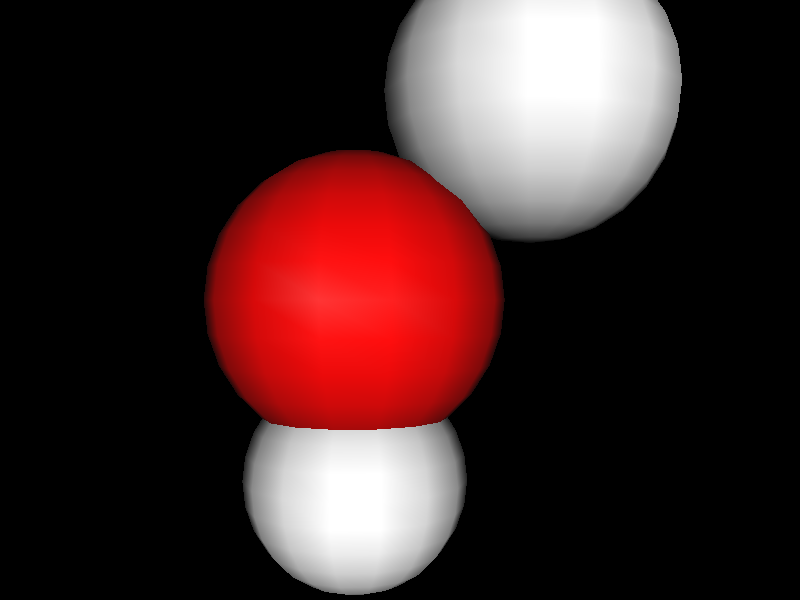
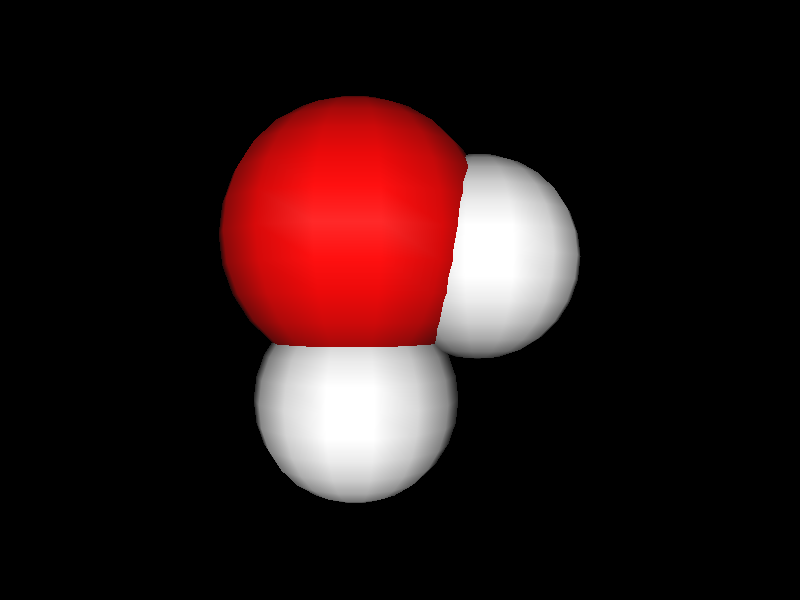
update example images

diff --git a/examples/Mentor/10.6.PickFilterTopLevel.cpp b/examples/Mentor/10.6.PickFilterTopLevel.cpp
@@ -38,6 +38,8 @@
  * Headless version of Inventor Mentor example 10.6
  *
  * Demonstrates top-level versus default pick filtering using v2 object IDs.
+ * Two benches are shown so filtered whole-model selection and default
+ * component selection stay visually comparable with the original example.
  */
 
 #include "headless_utils.h"
@@ -110,37 +112,29 @@ Bench makeBench(obol::Scene & scene, float x)
     Bench bench;
     bench.group = scene.addGroup(translation(x, 0.0f, 0.0f));
 
-    const obol::Material gray = material(0.65f, 0.67f, 0.67f);
-    const float slatX[11] = {
-        -2.5f, -2.0f, -1.5f, -1.0f, -0.5f, 0.0f,
-         0.5f,  1.0f,  1.5f,  2.0f,  2.5f
+    const float plankX[3] = {-0.6f, 0.0f, 0.6f};
+    const obol::Material plankMaterials[3] = {
+        material(0.55f, 0.30f, 0.10f),
+        material(0.60f, 0.35f, 0.12f),
+        material(0.50f, 0.28f, 0.09f)
     };
-    for (float sx : slatX) {
+    for (int i = 0; i < 3; ++i) {
         addBenchCube(scene,
                      bench,
-                     gray,
-                     partTransform(sx, 0.75f, 0.0f, 0.055f, 0.85f, 0.05f));
+                     plankMaterials[i],
+                     partTransform(plankX[i], 0.55f, 0.0f, 0.45f, 0.08f, 1.8f));
     }
 
-    addBenchCube(scene, bench, gray, partTransform(0.0f, 0.0f, 0.0f, 1.7f, 0.12f, 0.08f));
-    addBenchCube(scene, bench, gray, partTransform(0.0f, 1.45f, 0.0f, 1.55f, 0.07f, 0.08f));
-    addBenchCube(scene, bench, gray, partTransform(-3.1f, 0.55f, 0.0f, 0.10f, 0.95f, 0.10f));
-    addBenchCube(scene, bench, gray, partTransform(3.1f, 0.55f, 0.0f, 0.10f, 0.95f, 0.10f));
-    addBenchCube(scene, bench, gray, partTransform(-2.6f, -0.75f, 0.0f, 0.10f, 0.70f, 0.10f));
-    addBenchCube(scene, bench, gray, partTransform(2.6f, -0.75f, 0.0f, 0.10f, 0.70f, 0.10f));
-    addBenchCube(scene, bench, gray, partTransform(-2.8f, 0.10f, 0.0f, 0.06f, 0.75f, 0.08f));
-    addBenchCube(scene, bench, gray, partTransform(2.8f, 0.10f, 0.0f, 0.06f, 0.75f, 0.08f));
+    const float legZ[2] = {-0.75f, 0.75f};
+    const obol::Material frameMaterial = material(0.25f, 0.25f, 0.30f);
+    for (int i = 0; i < 2; ++i) {
+        addBenchCube(scene,
+                     bench,
+                     frameMaterial,
+                     partTransform(0.0f, 0.25f, legZ[i], 1.6f, 0.5f, 0.08f));
+    }
 
     return bench;
-}
-
-void applyViewAllCamera(obol::Scene & scene)
-{
-    obol::ViewAllRequest request;
-    request.viewportWidth = DEFAULT_WIDTH;
-    request.viewportHeight = DEFAULT_HEIGHT;
-    request.slack = 1.25f;
-    scene.setCamera(obol::CameraFraming::viewAllPerspective(scene, request));
 }
 
 void setBenchMaterial(obol::Scene & scene, const Bench & bench, const obol::Material & mat)
@@ -172,6 +166,11 @@ int main(int argc, char **argv)
     initCoinHeadless();
 
     obol::Scene scene;
+    obol::PerspectiveCamera camera;
+    camera.position = {0.0f, 5.5f, 8.0f};
+    camera.target = {0.0f, 0.2f, 0.0f};
+    camera.verticalFieldOfViewRadians = 0.62f;
+    scene.setCamera(camera);
 
     obol::DirectionalLight light1;
     light1.direction = {-1.0f, -1.5f, -1.0f};
@@ -182,8 +181,8 @@ int main(int argc, char **argv)
     light2.color = {0.8f, 0.9f, 1.0f, 1.0f};
     scene.addDirectionalLight(light2);
 
-    Bench bench = makeBench(scene, 0.0f);
-    applyViewAllCamera(scene);
+    Bench leftBench = makeBench(scene, -3.0f);
+    makeBench(scene, 3.0f);
 
     obol::ContextManagerBackend backend(getCoinHeadlessContextManager(),
                                         obol::RenderBackendKind::OpenGL2SWRast,
@@ -199,19 +198,19 @@ int main(int argc, char **argv)
     char filename[512];
     int frameNum = 0;
 
-    printf("Frame %d: initial scene (bench unselected)\n", frameNum);
+    printf("Frame %d: initial scene (both benches unselected)\n", frameNum);
     snprintf(filename, sizeof(filename), "%s_frame%02d_initial.rgb", base, frameNum++);
     if (!renderScene(renderer, scene, filename)) return 1;
 
-    printf("Frame %d: filtered selection -> entire bench highlighted\n", frameNum);
-    setBenchMaterial(scene, bench, highlightMaterial());
+    printf("Frame %d: filtered selection -> entire left bench highlighted\n", frameNum);
+    setBenchMaterial(scene, leftBench, highlightMaterial());
     snprintf(filename, sizeof(filename), "%s_frame%02d_filtered_selected.rgb", base, frameNum++);
     if (!renderScene(renderer, scene, filename)) return 1;
-    restoreBenchMaterial(scene, bench);
+    restoreBenchMaterial(scene, leftBench);
 
-    printf("Frame %d: default selection -> only one bench component highlighted\n", frameNum);
-    if (!bench.parts.empty()) {
-        scene.setObjectMaterial(bench.parts[0].id, highlightMaterial());
+    printf("Frame %d: default selection -> only one left-bench component highlighted\n", frameNum);
+    if (!leftBench.parts.empty()) {
+        scene.setObjectMaterial(leftBench.parts[0].id, highlightMaterial());
     }
     snprintf(filename, sizeof(filename), "%s_frame%02d_default_selected.rgb", base, frameNum++);
     if (!renderScene(renderer, scene, filename)) return 1;

diff --git a/examples/Mentor/03.1.Molecule.cpp b/examples/Mentor/03.1.Molecule.cpp
@@ -8,6 +8,7 @@
 #include "headless_utils.h"
 #include <Obol/Obol.h>
 
+#include <cmath>
 #include <cstdio>
 
 namespace {
@@ -49,29 +50,53 @@ void addWaterMolecule(obol::Scene & scene)
                        molecule);
 
     obol::PrimitiveOptions defaultHydrogen;
-    defaultHydrogen.radius = 1.0f;
+    defaultHydrogen.radius = 0.75f;
+    // The original example uses SoGroup, so hydrogen1's scale/translation
+    // remains in the traversal state when hydrogen2 is visited.
+    const float inheritedScale = 0.75f;
+    const float inheritedTranslationY = -1.2f;
     scene.addPrimitive(obol::Primitive::Sphere,
                        material(1.0f, 1.0f, 1.0f),
-                       transform(1.1852f, 1.3877f, 0.0f),
+                       transform(1.1852f * inheritedScale,
+                                 inheritedTranslationY +
+                                     1.3877f * inheritedScale,
+                                 0.0f),
                        defaultHydrogen,
                        molecule);
 }
 
-bool renderScene(obol::OffscreenRenderer & renderer,
-                 obol::Scene & scene,
-                 const char * filename)
+bool renderView(obol::OffscreenRenderer & renderer,
+                obol::Scene & scene,
+                const char * filename,
+                const obol::PerspectiveCamera & camera)
 {
+    scene.setCamera(camera);
     const obol::FrameResult result = renderer.render(scene);
     return result.success && renderer.writeRGB(filename);
 }
 
-void setCamera(obol::Scene & scene, const obol::Vec3 & position)
+obol::PerspectiveCamera orbitCamera(const obol::PerspectiveCamera & camera,
+                                    float azimuth,
+                                    float elevation)
 {
-    obol::PerspectiveCamera camera;
-    camera.position = position;
-    camera.target = {0.3f, 0.0f, 0.0f};
-    camera.verticalFieldOfViewRadians = 0.65f;
-    scene.setCamera(camera);
+    obol::CameraOrbitRequest request;
+    request.camera = camera;
+    request.azimuthRadians = azimuth;
+    request.elevationRadians = elevation;
+    return obol::CameraFraming::orbit(request);
+}
+
+void makeCameras(const obol::Scene & scene,
+                 obol::PerspectiveCamera & frontCamera,
+                 obol::PerspectiveCamera & sideCamera,
+                 obol::PerspectiveCamera & angleCamera)
+{
+    obol::ViewAllRequest request;
+    request.viewportWidth = DEFAULT_WIDTH;
+    request.viewportHeight = DEFAULT_HEIGHT;
+    frontCamera = obol::CameraFraming::viewAllPerspective(scene, request);
+    sideCamera = orbitCamera(frontCamera, static_cast<float>(M_PI / 2.0), 0.0f);
+    angleCamera = orbitCamera(frontCamera, 0.0f, static_cast<float>(M_PI / 4.0));
 }
 
 } // namespace
@@ -83,6 +108,10 @@ int main(int argc, char **argv)
     obol::Scene scene;
     scene.addDirectionalLight(obol::DirectionalLight{});
     addWaterMolecule(scene);
+    obol::PerspectiveCamera frontCamera;
+    obol::PerspectiveCamera sideCamera;
+    obol::PerspectiveCamera angleCamera;
+    makeCameras(scene, frontCamera, sideCamera, angleCamera);
 
     obol::ContextManagerBackend backend(getCoinHeadlessContextManager(),
                                         obol::RenderBackendKind::OpenGL2SWRast,
@@ -97,19 +126,16 @@ int main(int argc, char **argv)
     const char *baseFilename = (argc > 1) ? argv[1] : "03.1.Molecule";
     char filename[512];
 
-    setCamera(scene, {0.0f, 0.0f, 6.0f});
     snprintf(filename, sizeof(filename), "%s_front.rgb", baseFilename);
-    if (!renderScene(renderer, scene, filename)) return 1;
+    if (!renderView(renderer, scene, filename, frontCamera)) return 1;
     snprintf(filename, sizeof(filename), "%s.rgb", baseFilename);
-    if (!renderScene(renderer, scene, filename)) return 1;
+    if (!renderView(renderer, scene, filename, frontCamera)) return 1;
 
-    setCamera(scene, {6.0f, 0.0f, 0.0f});
     snprintf(filename, sizeof(filename), "%s_side.rgb", baseFilename);
-    if (!renderScene(renderer, scene, filename)) return 1;
+    if (!renderView(renderer, scene, filename, sideCamera)) return 1;
 
-    setCamera(scene, {4.0f, 3.0f, 5.0f});
     snprintf(filename, sizeof(filename), "%s_angle.rgb", baseFilename);
-    if (!renderScene(renderer, scene, filename)) return 1;
+    if (!renderView(renderer, scene, filename, angleCamera)) return 1;
 
     return 0;
 }

diff --git a/examples/Mentor/04.2.Lights.cpp b/examples/Mentor/04.2.Lights.cpp
@@ -79,11 +79,6 @@ int main(int argc, char **argv)
     initCoinHeadless();
 
     obol::Scene scene;
-    obol::PerspectiveCamera camera;
-    camera.position = {0.0f, 0.0f, 7.0f};
-    camera.target = {0.0f, 0.0f, 0.0f};
-    camera.verticalFieldOfViewRadians = 0.65f;
-    scene.setCamera(camera);
 
     obol::DirectionalLight directional;
     directional.direction = {0.0f, -1.0f, -1.0f};
@@ -96,11 +91,13 @@ int main(int argc, char **argv)
     point.location = {0.0f, 0.0f, 0.0f};
     scene.addPointLight(point, movingLight);
 
-    obol::Material coneMaterial;
-    coneMaterial.baseColor = {0.85f, 0.78f, 0.55f, 1.0f};
-    coneMaterial.specular = {0.4f, 0.4f, 0.4f, 1.0f};
-    coneMaterial.shininess = 0.35f;
-    scene.addPrimitive(obol::Primitive::Cone, coneMaterial);
+    scene.addPrimitive(obol::Primitive::Cone, obol::Material{});
+
+    obol::ViewAllRequest cameraRequest;
+    cameraRequest.viewportWidth = DEFAULT_WIDTH;
+    cameraRequest.viewportHeight = DEFAULT_HEIGHT;
+    scene.setCamera(obol::CameraFraming::viewAllPerspective(scene,
+                                                            cameraRequest));
 
     obol::ContextManagerBackend backend(getCoinHeadlessContextManager(),
                                         obol::RenderBackendKind::OpenGL2SWRast,

diff --git a/docs/MENTOR_V2_IMAGE_AUDIT.md b/docs/MENTOR_V2_IMAGE_AUDIT.md
@@ -38,21 +38,73 @@ Current comparison summary:
 | Chapter | Common | Changed | Avg RMSE | Max RMSE | Max-diff image | Initial assessment |
 | --- | ---: | ---: | ---: | ---: | --- | --- |
 | 02 | 41 | 41 | 0.57 | 1.88 | `02.2.EngineSpin_frame06_control.png` | Fixed/aligned. Cone examples now preserve the original diffuse material and `viewAll()`-derived camera/viewer state while keeping v2 app-owned animation and camera updates. Remaining delta is rasterization noise. |
-| 03 | 11 | 11 | 60.86 | 105.93 | `03.3.Naming_before_control.png` | Mixed. Molecule/Robot color regression was fixed. `03.3.Naming` separated cube/sphere composition is accepted as clearer v2 intent. |
-| 04 | 10 | 10 | 33.56 | 37.69 | `04.2.Lights_frame01_control.png` | Mostly acceptable after light-state bridge fix; gradient behavior restored. |
+| 03 | 11 | 11 | 48.76 | 105.93 | `03.3.Naming_before_control.png` | Mixed. `03.1.Molecule` transform-state regression has been fixed by preserving the original `SoGroup` inherited transform behavior. `03.3.Naming` separated cube/sphere composition is accepted as clearer v2 intent. `03.2.Robot` is much more legible in v2 but changes material/color substantially enough to need signoff as an intentional improvement. |
+| 04 | 10 | 10 | 17.11 | 37.06 | `04.1.Cameras_orthographic_control.png` | Improved. `04.2.Lights` now uses the original default cone material and `viewAll()`-derived camera, restoring the yellow-to-red light-gradient scale/framing. Remaining Chapter 04 deltas are in the camera-projection example, not Lights. |
 | 05 | 23 | 23 | 1.25 | 6.23 | `05.6.TransformOrdering_front_control.png` | Fixed/aligned. FaceSet, IndexedFaceSet, TriangleStripSet, QuadMesh, Binding, and TransformOrdering now preserve original camera/light/material intent; native strip/quad mesh bridge paths avoid fallback normal artifacts. Remaining delta is minor rasterization/subpixel noise. |
 | 06 | 10 | 10 | 6.50 | 16.40 | `06.2.Simple3DText_front_control.png` | Fixed/aligned. `06.1.Text` and `06.2.Simple3DText` now preserve the original `viewAll()`/orbit camera sequence and default lighting; `06.3.Complex3DText` preserves its explicit camera/orbit sequence while keeping the v2 text-profile fallback. Remaining delta is text rasterization and sphere/text tessellation shading noise. |
 | 07 | 9 | 9 | 2.43 | 6.71 | `07.3.TextureFunction_angle_control.png` | Fixed/aligned. `07.1.BasicTexture`, `07.2.TextureCoordinates`, and `07.3.TextureFunction` now preserve the original texture data/UV behavior, `viewAll()`/orbit camera sequence, and default lighting. Remaining delta is minor rasterization/tessellation noise. |
 | 08 | 16 | 16 | 20.95 | 29.60 | `08.2.UniCurve_top_control.png` | Intentional fallback, with fixes. NURBS examples are sampled/tessellated; `08.3`/`08.4` lighting/normals corrected. |
 | 09 | 13 | 13 | 34.10 | 56.04 | `09.4.PickAction_pick_star2_control.png` | Improved. `09.1.Print` camera framing fixed; `09.2.Texture` source texture framing fixed; `09.4.PickAction` cube/star regression fixed. |
-| 10 | 38 | 38 | 28.52 | 52.48 | `10.2.setEventCB_rotated_control.png` | Improved. `10.2.setEventCB` primary frame is back to the initial light-blue sphere and uses suffixed frames for event-state changes; `10.5.SelectionCB`, `10.6.PickFilterTopLevel`, and `10.7.PickFilterManip` framing/selection-state visibility fixed. `10.8.PickFilterNodeKit` remains visually close to `main`; manipulator geometry remains a first-class v2 interaction follow-up. |
+| 10 | 38 | 38 | 29.69 | 70.77 | `10.6.PickFilterTopLevel_frame01_filtered_selected_control.png` | Improved with old-v2 context. `10.2.setEventCB` primary frame is back to the initial light-blue sphere and uses suffixed frames for event-state changes; `10.5.SelectionCB` and `10.7.PickFilterManip` framing/selection-state visibility fixed. `10.6.PickFilterTopLevel` has been restored to the `ee1ce99` old-v2 two-bench abstraction, preserving whole-bench versus component-only selection even though it differs from `main`'s imported curved park bench. `10.8.PickFilterNodeKit` remains visually close to `main`; manipulator geometry remains a first-class v2 interaction follow-up. |
 | 11 | 2 | 2 | 0.94 | 1.18 | `11.1.ReadFile_control.png` | Fixed/aligned. Imported/string scenes use `viewAll()`-derived v2 cameras, and v2 lights are ordered before legacy fallback roots so `ReadFile` and `ReadString` match the original lit imported content. |
 | 12 | 24 | 21 | 18.88 | 34.44 | `12.4.TimerSensor_frame08_control.png` | Improved. `12.1.FieldSensor` now preserves the original camera-position callback plus `viewAll()` render behavior, and `12.2.NodeSensor` uses real `Scene::removeObject()` with overlapping default cube/sphere geometry. Remaining deltas are `AlarmSensor`/`TimerSensor` presentation differences. |
 | 13 | 109 | 77 | 20.37 | 51.99 | `13.4.Gate_enabled_04_control.png` | Improved. `13.1.GlobalFlds` time formatting fixed; `13.3.TimeCounter` intentionally shows clearer time progression with adjusted initial framing; `13.4.Gate` has explicit open/closed cues; `13.5.Boolean` view framing fixed; `13.7.Rotor` now uses the original windmill `.iv` assets through transformable v2 legacy-graph objects; `13.8.Blinker` camera framing fixed. Remaining max is the intentionally clearer Gate visualization. |
 | 14 | 8 | 8 | 21.63 | 29.34 | `14.2.Editors_light_finish_control.png` | Improved. `14.2.Editors` desk geometry/camera were brought closer to the imported `desk.iv` view; v2 `light_off` remains intentionally darker because the light-off editor state is actually applied. |
 | 15 | 12 | 12 | 21.64 | 33.46 | `15.3.AttachManip_frame05_cone_transformbox_control.png` | Improved. `15.1.ConeRadius` now uses `viewAll()`-derived framing, gray cone material, primitive-option radius edits, and a portable dragger proxy; `15.3.AttachManip` now matches main object spacing/framing more closely and uses a white transform-box proxy. Remaining delta is simplified manipulator handle geometry pending first-class manipulator/dragger support. |
-| 16 | 11 | 11 | 8.78 | 18.03 | `16.3.AttachEditor_orange_control.png` | Fixed/aligned. Callback/editor examples now import the original `dogDish.iv` through transformable v2 legacy-graph objects, preserve red food, apply edited material through the inherited bowl material, and keep unsuffixed controls mapped to main's blue state. Remaining delta is minor material/shading noise. |
+| 16 | 11 | 11 | 7.30 | 18.03 | `16.3.AttachEditor_orange_control.png` | Fixed/aligned. Callback/editor examples now import the original `dogDish.iv` through transformable v2 legacy-graph objects, preserve red food, apply edited material through the inherited bowl material, and keep unsuffixed controls mapped to main's blue state. Remaining delta is minor material/shading noise. |
 | 17 | 5 | 5 | 14.30 | 18.96 | `17.2.GLCallback_00_default_control.png` | Fixed/aligned. `17.2.GLCallback` uses `Scene::addOpenGLCallback()` and raw OpenGL drawing again, with legacy camera orientations and cumulative transform semantics preserved in v2 object state. Remaining delta is minor rasterization/shading noise. |
+
+## Current Recheck Notes
+
+Regenerated against `main` controls on 2026-06-19 using
+`/tmp/obol_control_compare.tsv`. There are no `main` controls missing from the
+current tree. There are 67 v2-only controls, primarily new multi-frame Chapter
+14/15 interaction states; treat those as added coverage, not parity failures.
+When comparing current v2 against an older v2 baseline, use commit
+`ee1ce99dd4a99911853afaf1ef3010340baef811` as the old-v2 control-image
+source.
+
+Likely regressions or follow-up fixes:
+
+- No current recheck item is classified as a clear regression after the
+  `03.1.Molecule`, `04.2.Lights`, and `10.6.PickFilterTopLevel` fixes.
+
+Likely intentional improvements or acceptable deltas:
+
+- `03.3.Naming`: v2's separated cube/sphere state is clearer and should remain
+  accepted.
+- `03.2.Robot`: v2 is substantially more visible than `main`; keep this in the
+  improvement bucket if the gold material is intentional, otherwise restore the
+  original material while retaining the better visibility.
+- `05.2.IndexedFaceSet_side/top`: v2 remains visually cleaner while preserving
+  the indexed-face intent.
+- `10.6.PickFilterTopLevel`: current controls are pixel-perfect matches to the
+  `ee1ce99` old-v2 controls. The two-bench abstraction is accepted as a clearer
+  v2 demonstration of whole-object versus component selection, even though it
+  intentionally differs from `main`'s curved imported park bench.
+- `13.3.TimeCounter`: v2 better communicates time-varying motion, though the
+  first cube is much smaller than `main`; keep only if the current framing is
+  intentional.
+- `13.4.Gate`: v2's explicit open/closed visual cues are clearer than both
+  `main` and the first v2 translation.
+- `14.2.Editors_light_off`: v2 correctly appears dark because the light-off
+  state is actually applied; this is likely more correct than `main`.
+
+Currently aligned or close enough after prior fixes:
+
+- `03.1.Molecule` now preserves the original `SoGroup` transform-state
+  behavior for the second hydrogen atom, so both hydrogens remain attached to
+  the oxygen rather than one white ball drifting away.
+- `04.2.Lights` now restores the original default cone material and
+  `viewAll()` camera framing while keeping v2 light animation through a stable
+  group transform.
+- `09.4.PickAction` now renders stars rather than boxes.
+- `11.1.ReadFile` and `11.2.ReadString` are close; the red cone/string import
+  problem is not visible in the current controls.
+- `13.7.Rotor` is back to the windmill assets and visually close to `main`.
+- `13.8.Blinker` is close after the camera adjustment.
+- `16.2.Callback`, `16.3.AttachEditor`, and `17.2.GLCallback` are visually
+  aligned aside from small shading/rasterization differences.
 
 ## Confirmed Regressions
 
